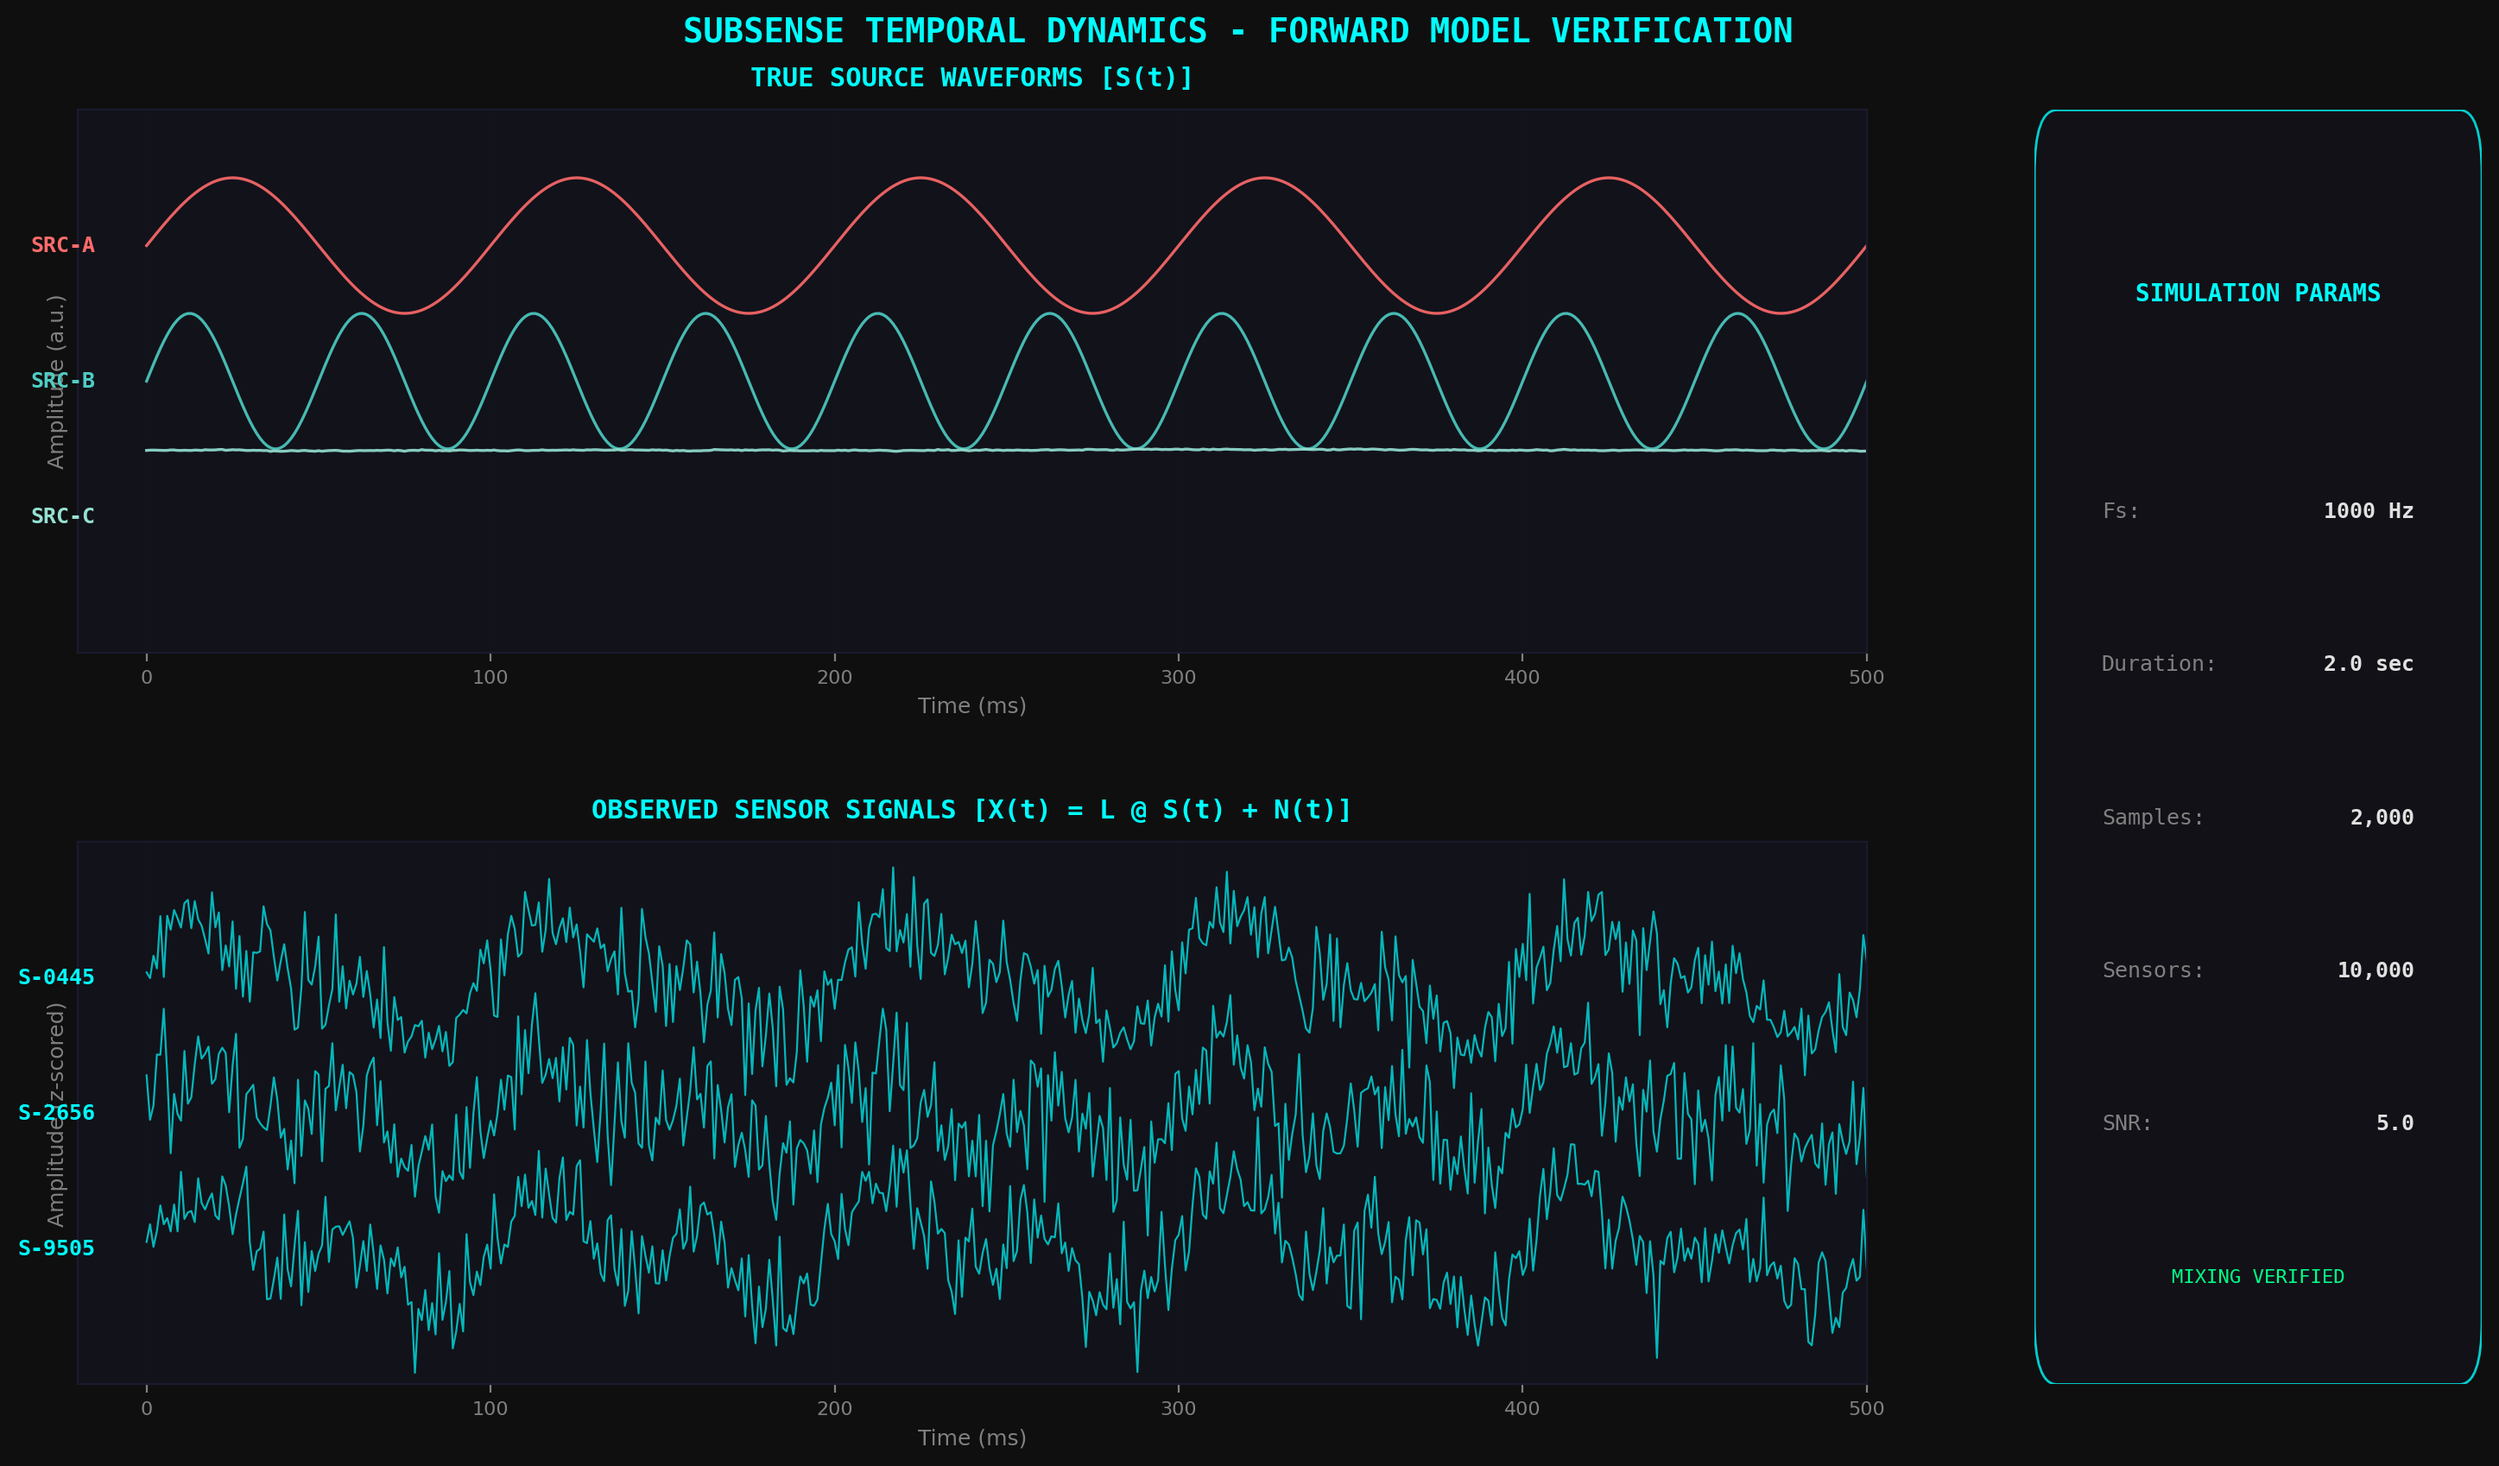
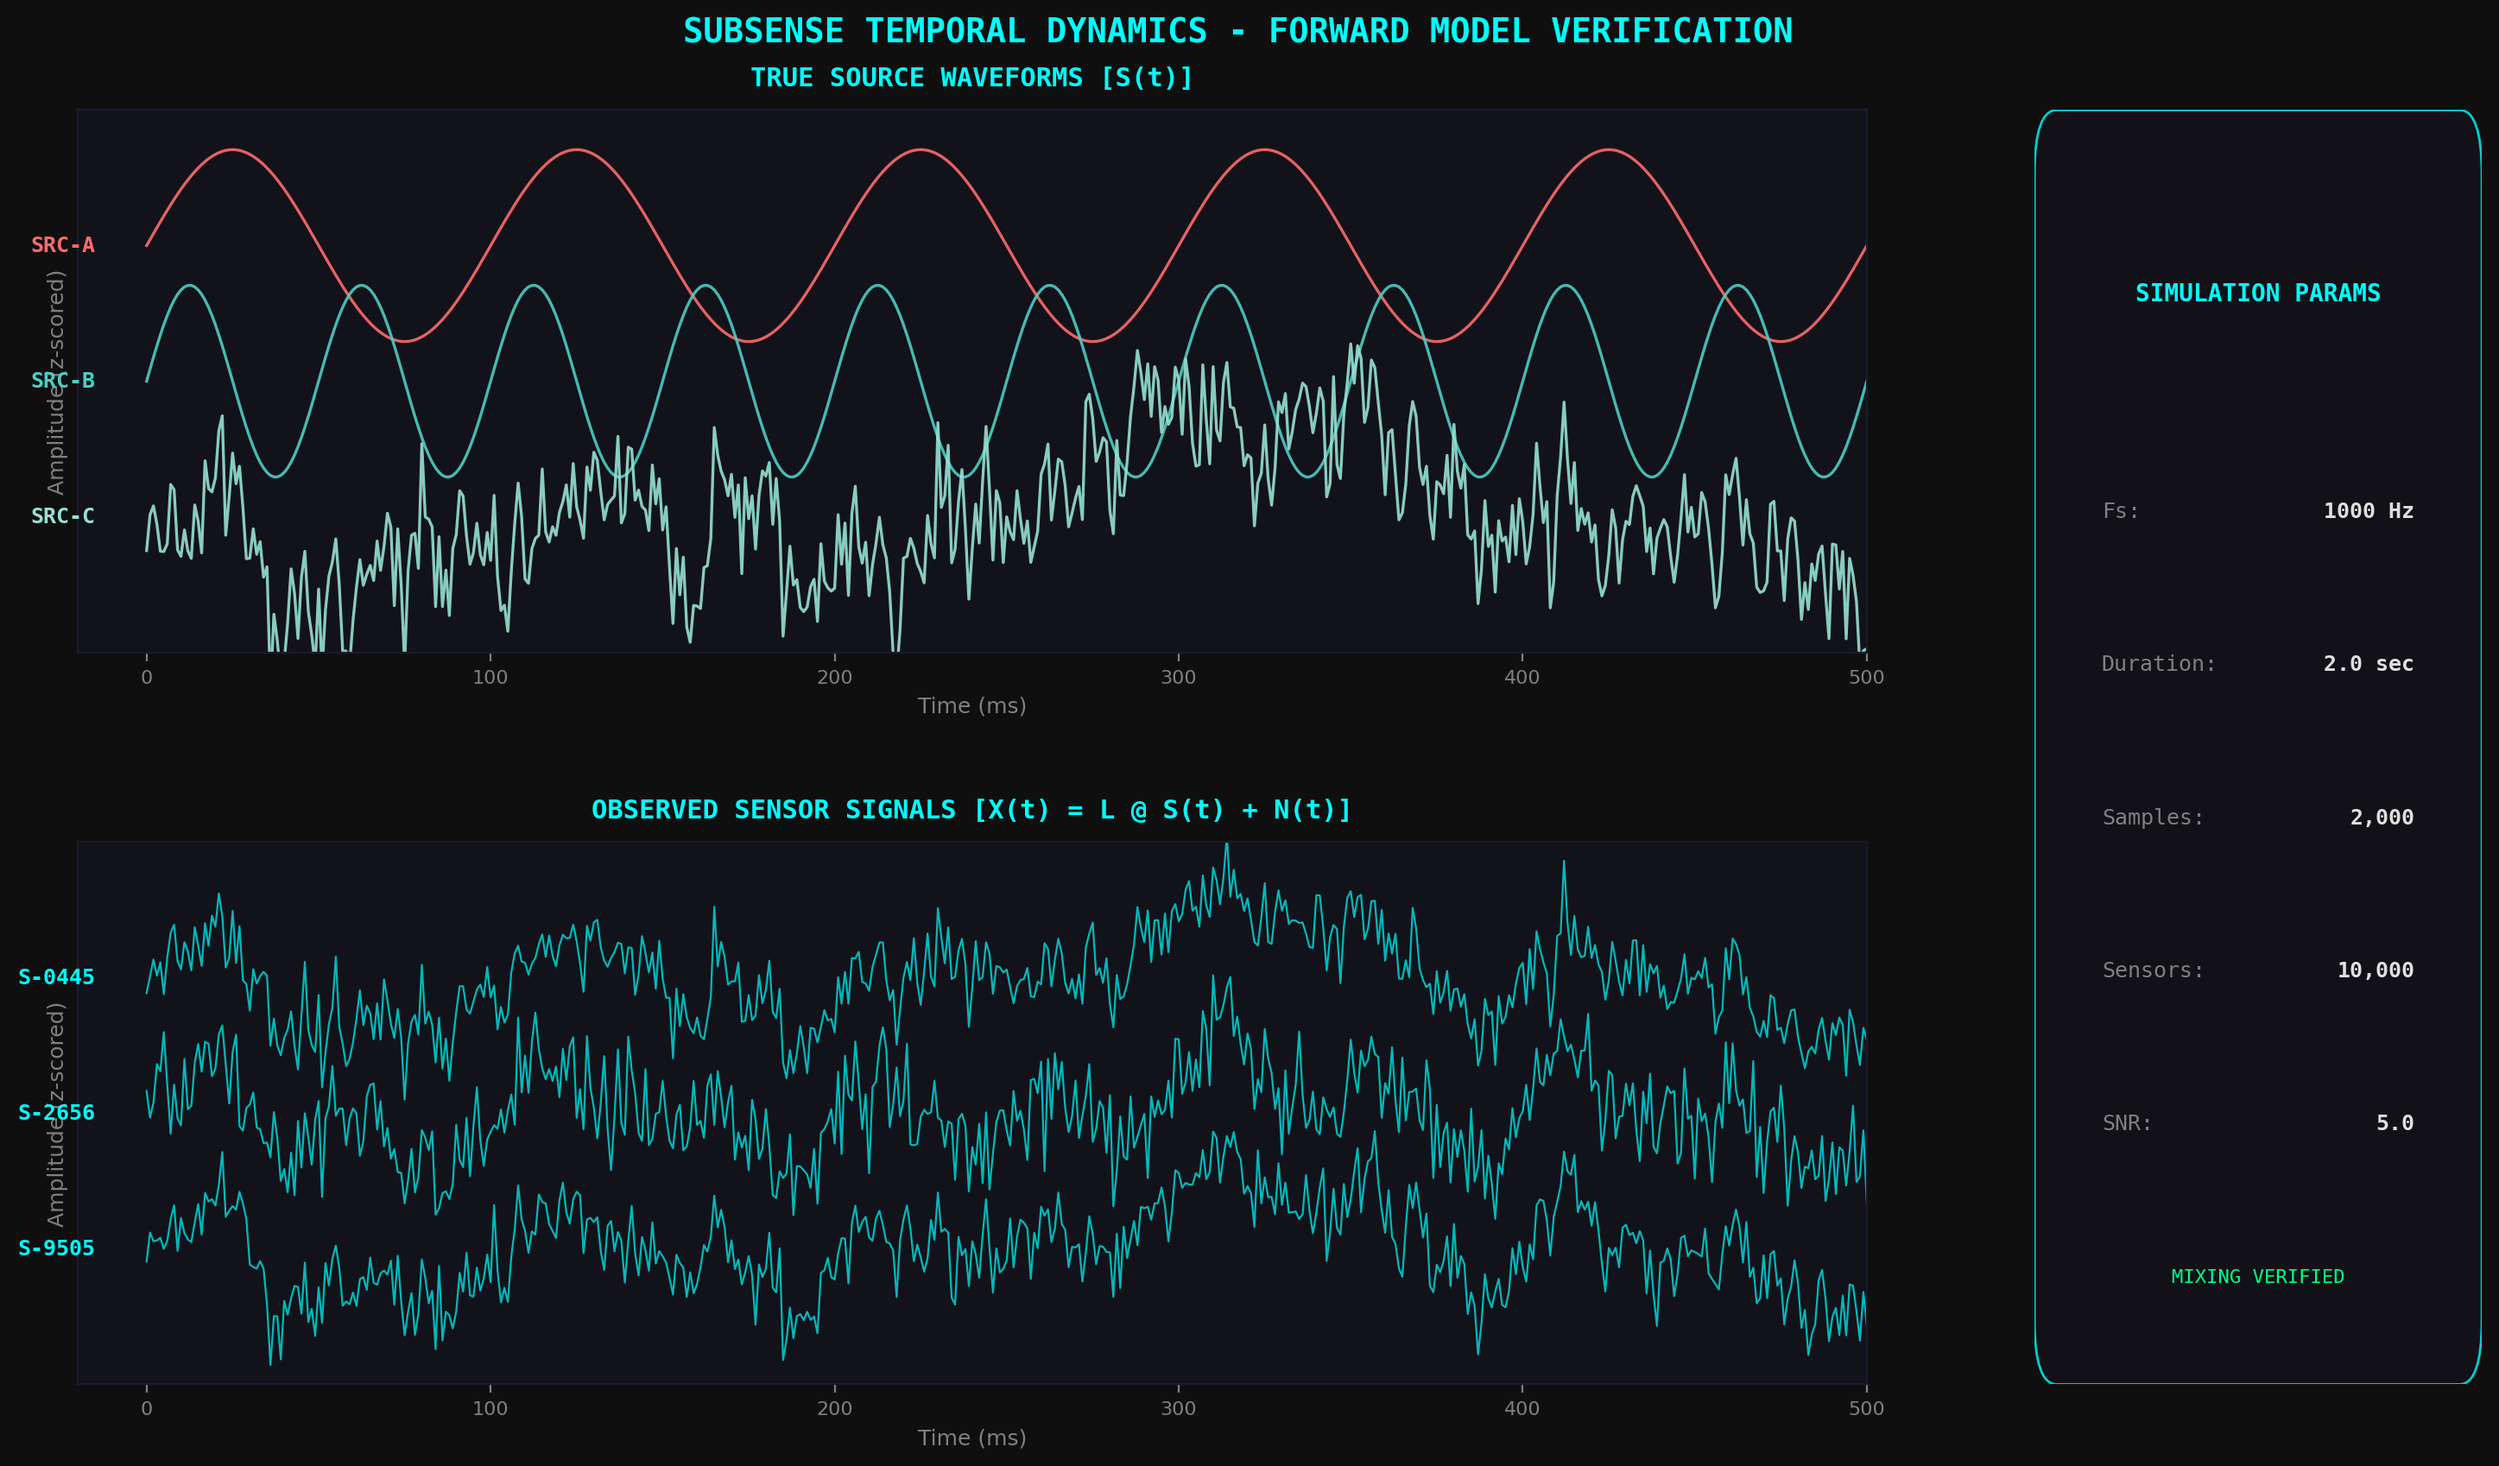
Fix PNG visualization issues for clarity and reviewer confidence
Critical:
- Normalize source waveforms in Phase 2 so pink noise is visible alongside sinusoids

Moderate:
- Add correlation matrix note explaining off-diagonal values (broadband pink noise)
- Add metrics panel note about 10K sensor redundancy for high recovery rates
- Add PSD legend with source labels for better readability

Minor:
- Add "Clamped (expected)" annotation on transfer function divergence
- Remove duplicate phase1_validation.png save

All 77 tests pass. Regenerated all phase PNG files.

diff --git a/notebooks/validate_unmixing.py b/notebooks/validate_unmixing.py
@@ -161,6 +161,17 @@ def plot_correlation_matrix(
     setup_axis_style(ax, "CORRELATION MATRIX")
     ax.grid(False)
 
+    # Explanatory note for off-diagonal values
+    ax.text(
+        0.5, -0.18,
+        "Note: Small off-diagonal values expected\n(pink noise has broadband 10Hz energy)",
+        transform=ax.transAxes,
+        fontsize=7,
+        color=COLORS["text_secondary"],
+        ha="center",
+        va="top",
+    )
+
 
 def plot_psd_comparison(
     ax,
@@ -171,6 +182,7 @@ def plot_psd_comparison(
     """Plot power spectral density comparison."""
 
     source_colors = [COLORS["source_a"], COLORS["source_b"], COLORS["source_c"]]
+    source_names = ["Alpha", "Beta", "Pink"]
 
     for i in range(3):
         # Compute PSD for ground truth
@@ -190,6 +202,7 @@ def plot_psd_comparison(
             color=source_colors[i],
             linewidth=1.2,
             alpha=0.9,
+            label=f"{source_names[i]} (GT)" if i == 0 else None,
         )
         ax.semilogy(
             f_rec, psd_rec + offset,
@@ -197,13 +210,33 @@ def plot_psd_comparison(
             linewidth=1.0,
             alpha=0.7,
             linestyle="--",
+            label="Recovered" if i == 0 else None,
+        )
+
+        # Add source label at right edge
+        ax.text(
+            52, offset + 0.5,
+            source_names[i],
+            fontsize=7,
+            fontfamily="monospace",
+            color=source_colors[i],
+            va="center",
         )
 
     setup_axis_style(ax, "POWER SPECTRAL DENSITY")
     ax.set_xlabel("Frequency (Hz)", color=COLORS["text_secondary"], fontsize=9)
     ax.set_ylabel("PSD (normalized)", color=COLORS["text_secondary"], fontsize=9)
-    ax.set_xlim([0, 50])
+    ax.set_xlim([0, 55])
     ax.set_ylim([1e-4, 10])
+
+    # Legend for line styles
+    ax.legend(
+        loc="lower left",
+        fontsize=7,
+        facecolor=COLORS["panel_bg"],
+        edgecolor=COLORS["grid_line"],
+        labelcolor=COLORS["text_primary"],
+    )
 
 
 def render_metrics_panel(
@@ -264,6 +297,16 @@ def render_metrics_panel(
         ax.text(0.55, y_pos, f"r={corr:.3f}", fontsize=8, fontfamily="monospace", color=COLORS["text_primary"])
         ax.text(0.85, y_pos, quality, fontsize=8, fontfamily="monospace", color=q_color, ha="right")
         y_pos -= 0.07
+
+    # Note about high recovery (addresses r=0.9999 concern)
+    ax.text(
+        0.5, y_pos - 0.02,
+        "(10K sensors provide high redundancy)",
+        fontsize=6,
+        fontfamily="monospace",
+        color=COLORS["text_secondary"],
+        ha="center",
+    )
 
     # Overall status
     avg_corr = np.mean(result.matched_correlations)

diff --git a/notebooks/visualize_cloud.py b/notebooks/visualize_cloud.py
@@ -353,6 +353,19 @@ def plot_decay_validation(
         linewidth=1.5,
         alpha=0.7,
     )
+
+    # Annotation explaining divergence at small distances
+    ax.text(
+        SINGULARITY_THRESHOLD_MM * 0.7,
+        v_theory[0] * 0.3,
+        "Clamped\n(expected)",
+        fontsize=7,
+        fontfamily="monospace",
+        color=COLORS["safety_yellow"],
+        ha="center",
+        va="top",
+        alpha=0.9,
+    )
     
     ax.set_xlabel("Distance (mm)", color=COLORS["text_secondary"], fontsize=9)
     ax.set_ylabel("Lead Field (V/A)", color=COLORS["text_secondary"], fontsize=9)
@@ -595,10 +608,7 @@ def main() -> None:
     print("=" * 60)
     print(f"  Dashboard saved: {output_path}")
     print("=" * 60)
-    
-    # Also update the old filename for backwards compatibility
-    plt.savefig(output_dir / "phase1_validation.png", dpi=150, bbox_inches="tight", facecolor=COLORS["background"])
-    
+
     # Show (uncomment for interactive viewing)
     # plt.show()
 

diff --git a/notebooks/visualize_signals.py b/notebooks/visualize_signals.py
@@ -60,9 +60,11 @@ def plot_source_waveforms(
     ]
 
     # Plot each source with vertical offset for clarity
+    # Z-score normalize each source so pink noise is visible alongside sinusoids
     offsets = [2, 0, -2]
     for i, (label, color) in enumerate(source_labels):
         signal = source_waveforms[i, mask]
+        signal = (signal - np.mean(signal)) / np.std(signal)  # Normalize for display
         ax.plot(
             t * 1000,  # Convert to ms
             signal + offsets[i],
@@ -87,7 +89,7 @@ def plot_source_waveforms(
 
     setup_axis_style(ax, "TRUE SOURCE WAVEFORMS [S(t)]")
     ax.set_xlabel("Time (ms)", color=COLORS["text_secondary"], fontsize=9)
-    ax.set_ylabel("Amplitude (a.u.)", color=COLORS["text_secondary"], fontsize=9)
+    ax.set_ylabel("Amplitude (z-scored)", color=COLORS["text_secondary"], fontsize=9)
     ax.set_xlim([time_window[0] * 1000 - 20, time_window[1] * 1000])
     ax.set_ylim([-4, 4])
 
